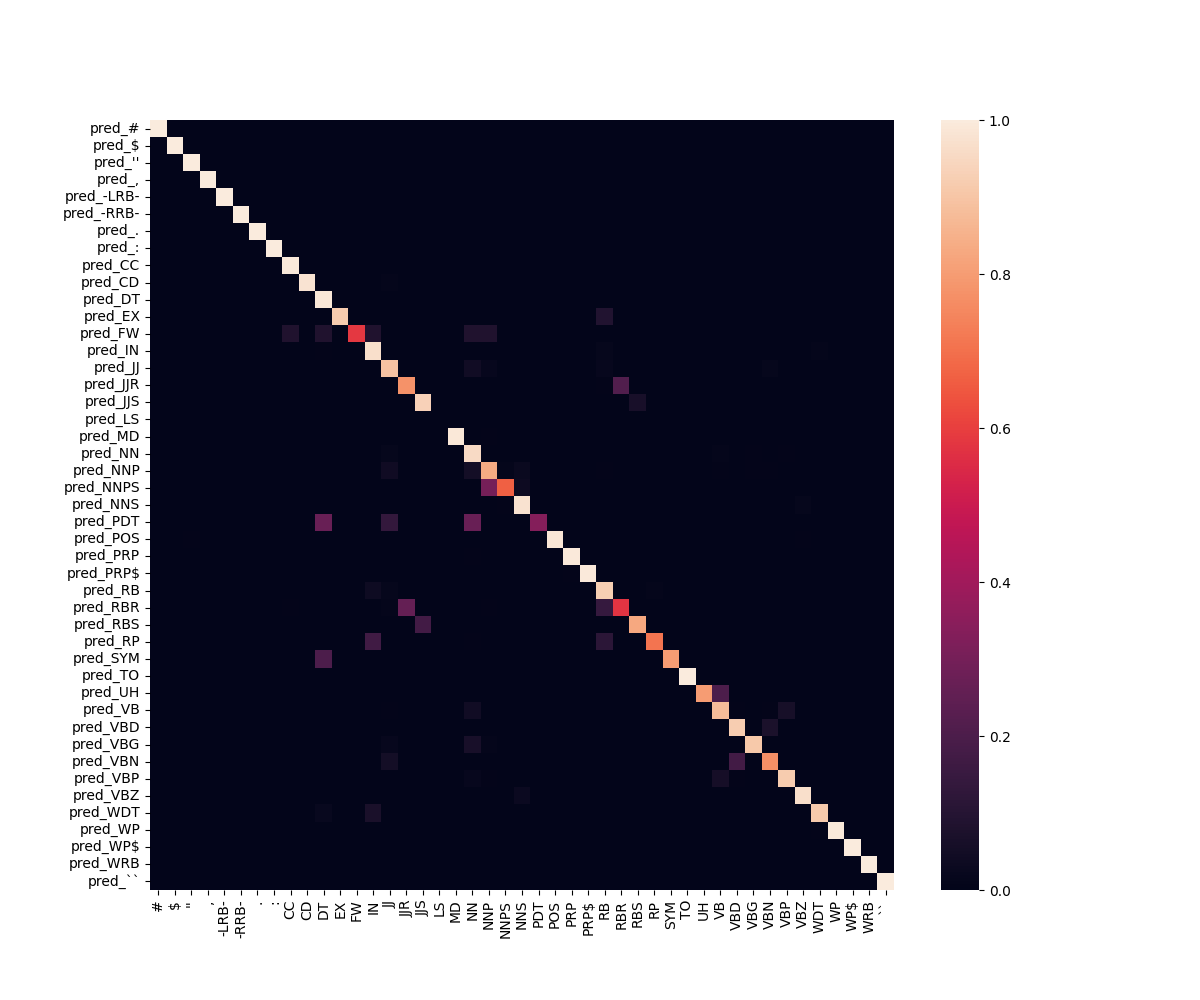
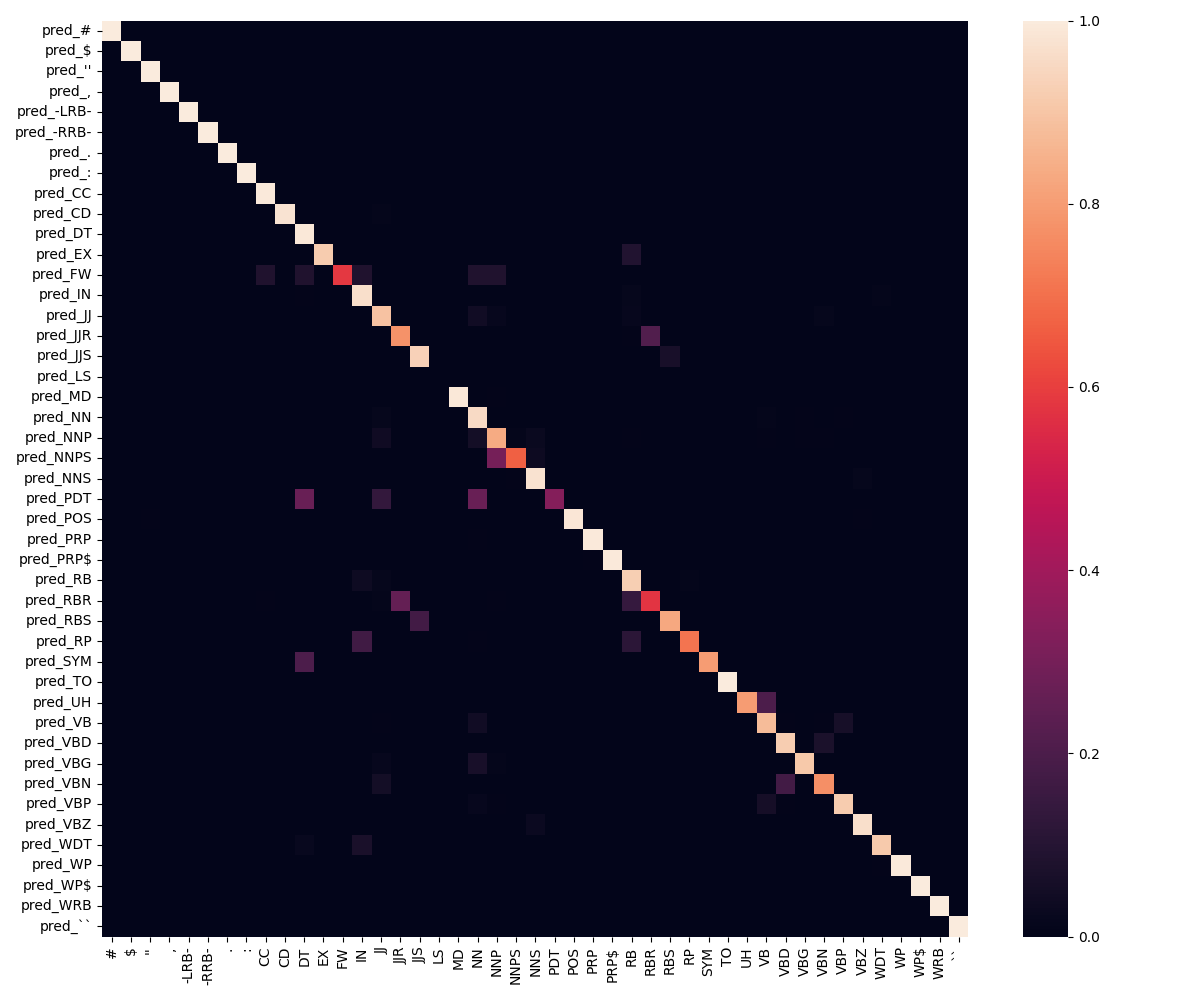
Atualizando visualizações

diff --git a/visualization.py b/visualization.py
@@ -7,6 +7,7 @@ unigram = unigram.div(unigram.sum(axis=1), axis=0)
 unigram.fillna(0, inplace=True)
 fig, ax = plt.subplots(figsize=(12,10))
 sns.heatmap(unigram, ax=ax)
+plt.tight_layout()
 plt.savefig("resultados_unigram_val.png")
 
 unigram = pd.read_csv('resultados_unigram_test.csv', index_col=0)
@@ -14,6 +15,7 @@ unigram = unigram.div(unigram.sum(axis=1), axis=0)
 unigram.fillna(0, inplace=True)
 fig, ax = plt.subplots(figsize=(12,10))
 sns.heatmap(unigram, ax=ax)
+plt.tight_layout()
 plt.savefig("resultados_unigram_test.png")
 
 bigram = pd.read_csv('resultados_bigram_val.csv', index_col=0)
@@ -21,6 +23,7 @@ bigram = bigram.div(bigram.sum(axis=1), axis=0)
 bigram.fillna(0, inplace=True)
 fig, ax = plt.subplots(figsize=(12,10))
 sns.heatmap(bigram, ax=ax)
+plt.tight_layout()
 plt.savefig("resultados_bigram_val.png")
 
 unigram = pd.read_csv('resultados_bigram_test.csv', index_col=0)
@@ -28,4 +31,5 @@ unigram = unigram.div(unigram.sum(axis=1), axis=0)
 unigram.fillna(0, inplace=True)
 fig, ax = plt.subplots(figsize=(12,10))
 sns.heatmap(unigram, ax=ax)
+plt.tight_layout()
 plt.savefig("resultados_bigram_test.png")
